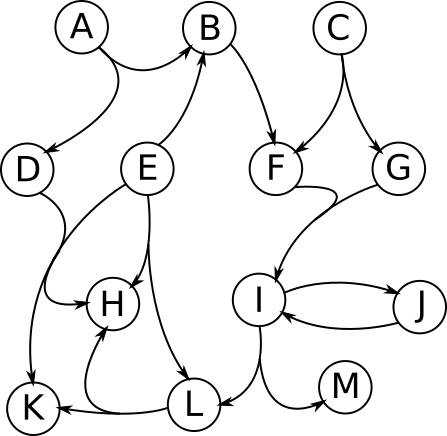
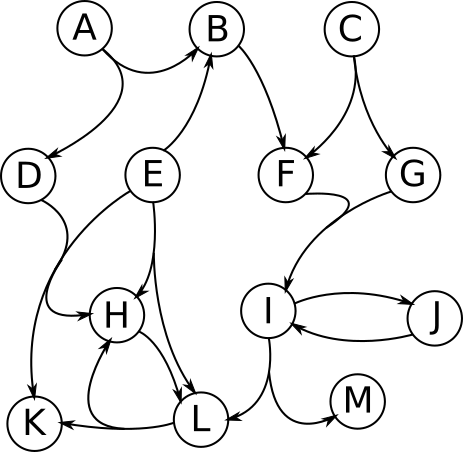
Added hypergraph images, both unweighted and weighted to ch. 3

diff --git a/document/thesis.tex b/document/thesis.tex
@@ -184,6 +184,13 @@ Furthermore, we can define sets of two or more nodes as a hypernode, which are m
 
 It is important to note that a standard directed graph is a special case of a directed hypergraph.  This is the case if every hypernode in the graph contains only one element, and if each edge has exactly one head element, and one tail element.  This has two important implications for algorithms that run on directed hypergraphs.  First, this means that there is no loss in functionality caused by using a hypergraph representation of a cell network, since anything that could be computed on a standard directed graph can be recreated exactly using the special case of the hypergraph. Secondly, this is important, because it means that anything that can be computed on a standard graph will be at least as computationally difficult to compute when generalized to a hypergraph.  In fact, we find that many tasks that are computationally easy on standard graphs become very difficult when generalized to hypergraphs \textit{(cite Anna's paper on K shortest hyperpaths)}.
 
+\begin{figure}
+  \begin{center}
+    \includegraphics{example-hypergraph-weighted}
+  \caption{The same hypergraph from above, now weighted with node prizes and dangling penalties.}
+  \end{center}
+\end{figure}
+
 \section{Hyperpaths \& Connectivity}
 In order to find the shortest route between two vertices, in a directed hypergraph, we define the notion of a \textit{hyperpath}, $P$, on the directed hypergraph $\mathcal{H}$.  We think of $P$ as the list of vertices and hyperedges that one must pass through in order to traverse through the directed hypergraph from vertex $u$ to get to $v$. The existence of a hyperpath between two nodes encodes the notion of ``connectivity" between those nodes.  If a hyperpath exists between nodes $u$ and $v$, we say that they are \textit{connected}. Furthermore, we refer to the set of all nodes in a hypergraph that are connected to each other by some hyperpath as a \textit{connected subnetwork} of the hypergraph. This is a useful definition, because it allows us the notion of a \textit{connected hypergraph}, a hypergraph in which every node is connected by some hyperpath to every other node in the hypergraph.
 
